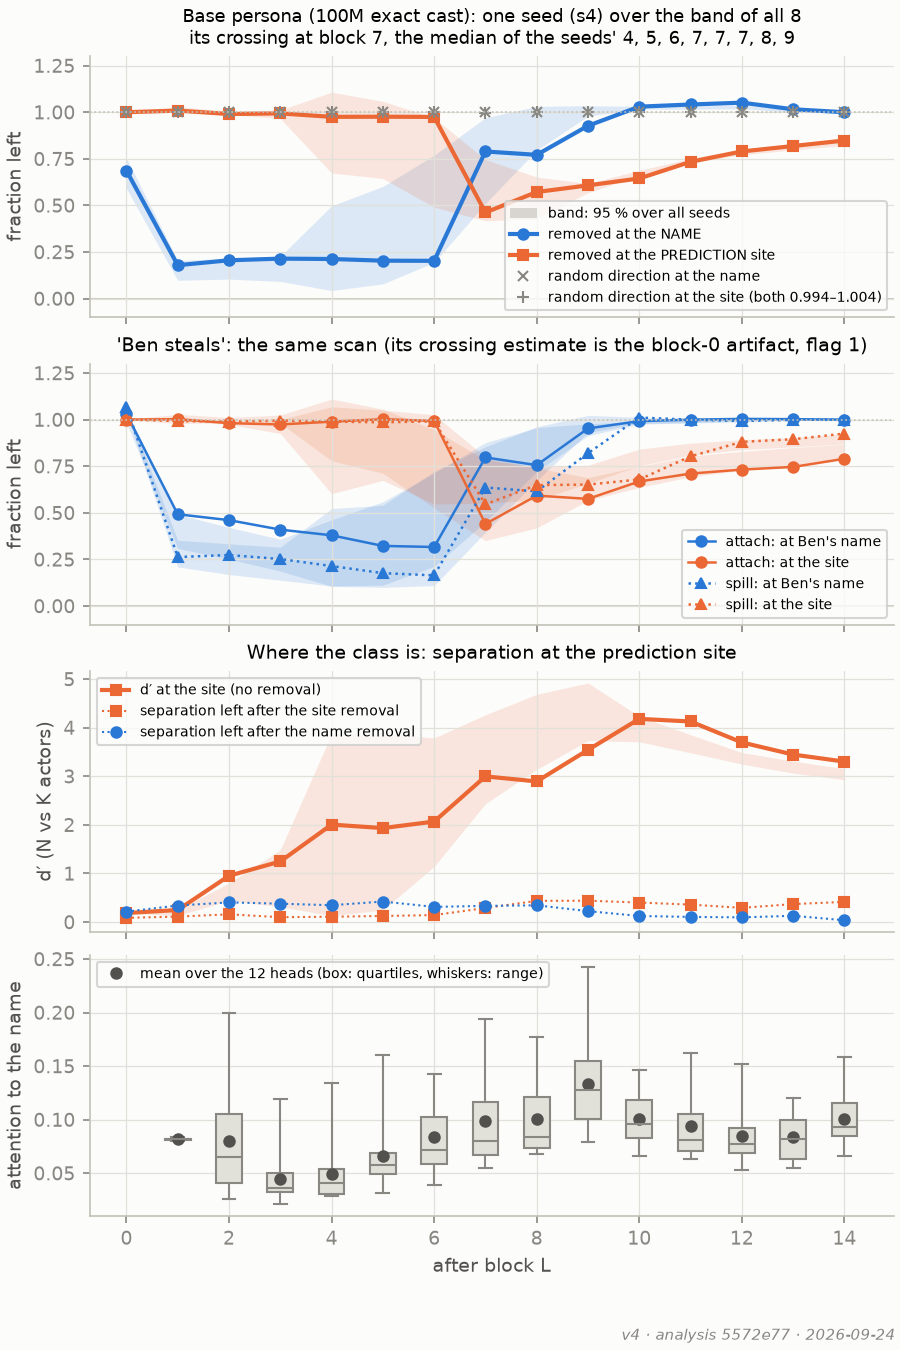
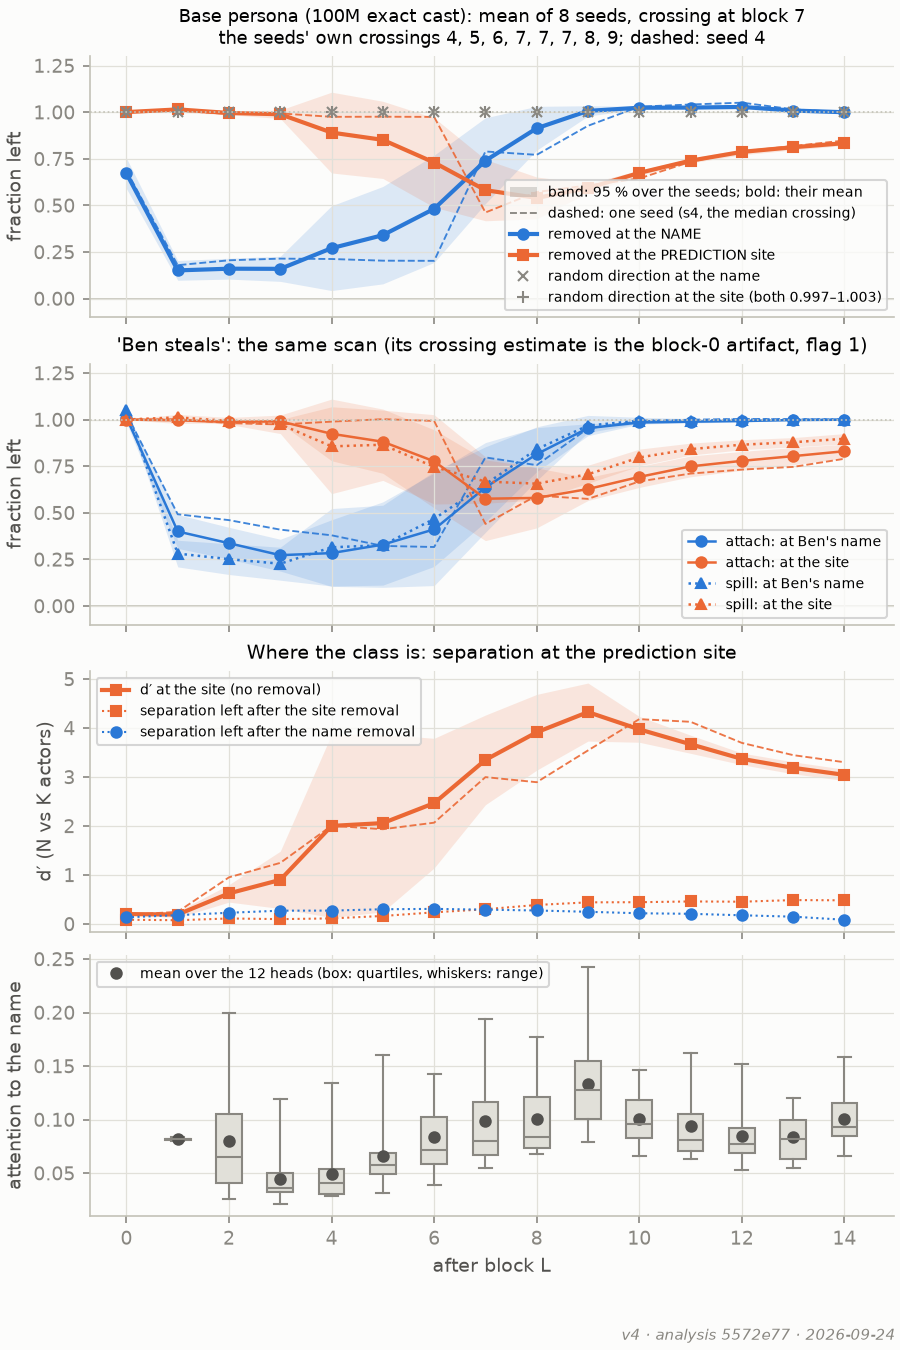
Figure 5a: the mean over seeds bold with its 95 % band, and one seed (the median crossing) thin and dashed to show a single model's abrupt switch.

diff --git a/scripts/plan_figures.py b/scripts/plan_figures.py
@@ -1291,8 +1291,13 @@ def draw_flow(axes, c, act="steal", runs=(), mode=None):
         for part in ("attach", "spill"):
             for pos, col in (("name", TWO[0]), ("site", TWO[1])):
                 seed_band(axes[1], runs, f"{act}_{part}_{pos}", col)
-        c = {**c, **{k: rep[k] for k in rep if isinstance(rep[k], list) and k in c}}  # the seed's own curves drawn below
-        axes[0].fill_between([], [], [], color=MUTED, alpha=0.3, lw=0, label="band: 95 % over all seeds")
+        # the mean (bold, below) over the band, and one seed thin to show how abrupt a single model's switch is
+        for key, ax_, col in (("base_name", axes[0], TWO[0]), ("base_site", axes[0], TWO[1]), ("dprime_site", axes[2], TWO[1]),
+                              (f"{act}_attach_name", axes[1], TWO[0]), (f"{act}_attach_site", axes[1], TWO[1])):
+            if rep.get(key) is not None:
+                ax_.plot(np.arange(len(rep[key])), rep[key], color=col, lw=0.9, ls="--", alpha=0.9, zorder=2)
+        axes[0].fill_between([], [], [], color=MUTED, alpha=0.3, lw=0, label="band: 95 % over the seeds; bold: their mean")
+        axes[0].plot([], [], color=MUTED, lw=0.9, ls="--", label=f"dashed: one seed (s{rep['_seed']}, the median crossing)")
     elif runs and mode == "lines":
         order = sorted(runs, key=lambda r: (r.get("base_crossing") if r.get("base_crossing") is not None else 99))
         for key, ax_, col in (("base_name", axes[0], TWO[0]), ("base_site", axes[0], TWO[1]), ("dprime_site", axes[2], TWO[1]),
@@ -1350,8 +1355,8 @@ def v4_5a(ax):
     axes[3].set_ylabel("attention to the name")
     runs = flow_runs(f"v4-lex-y100-{FLOW_MAIN}")
     rs = representative(runs) if runs and FLOW_SEEDS == "representative" else None
-    axes[0].set_title(f"Base persona ({FLOW_MAIN} exact cast): " + (f"one seed (s{rs['_seed']}) over the band of all {len(runs)}\nits crossing at block {rs['base_crossing']}, the median of the seeds' "
-                      f"{', '.join(str(r['base_crossing']) for r in sorted(runs, key=lambda r: r['base_crossing']))}"
+    axes[0].set_title(f"Base persona ({FLOW_MAIN} exact cast): " + (f"mean of {len(runs)} seeds, crossing at block {c['base_crossing_mean_curve']}\nthe seeds' own crossings "
+                      f"{', '.join(str(r['base_crossing']) for r in sorted(runs, key=lambda r: r['base_crossing']))}; dashed: seed {rs['_seed']}"
                       if rs else f"{c['n']} seeds, crossing at block {c['base_crossing_mean_curve']}"), fontsize=8.5)
     axes[1].set_title("'Ben steals': the same scan (its crossing estimate is the block-0 artifact, flag 1)", fontsize=9)
     axes[2].set_title("Where the class is: separation at the prediction site", fontsize=9)
